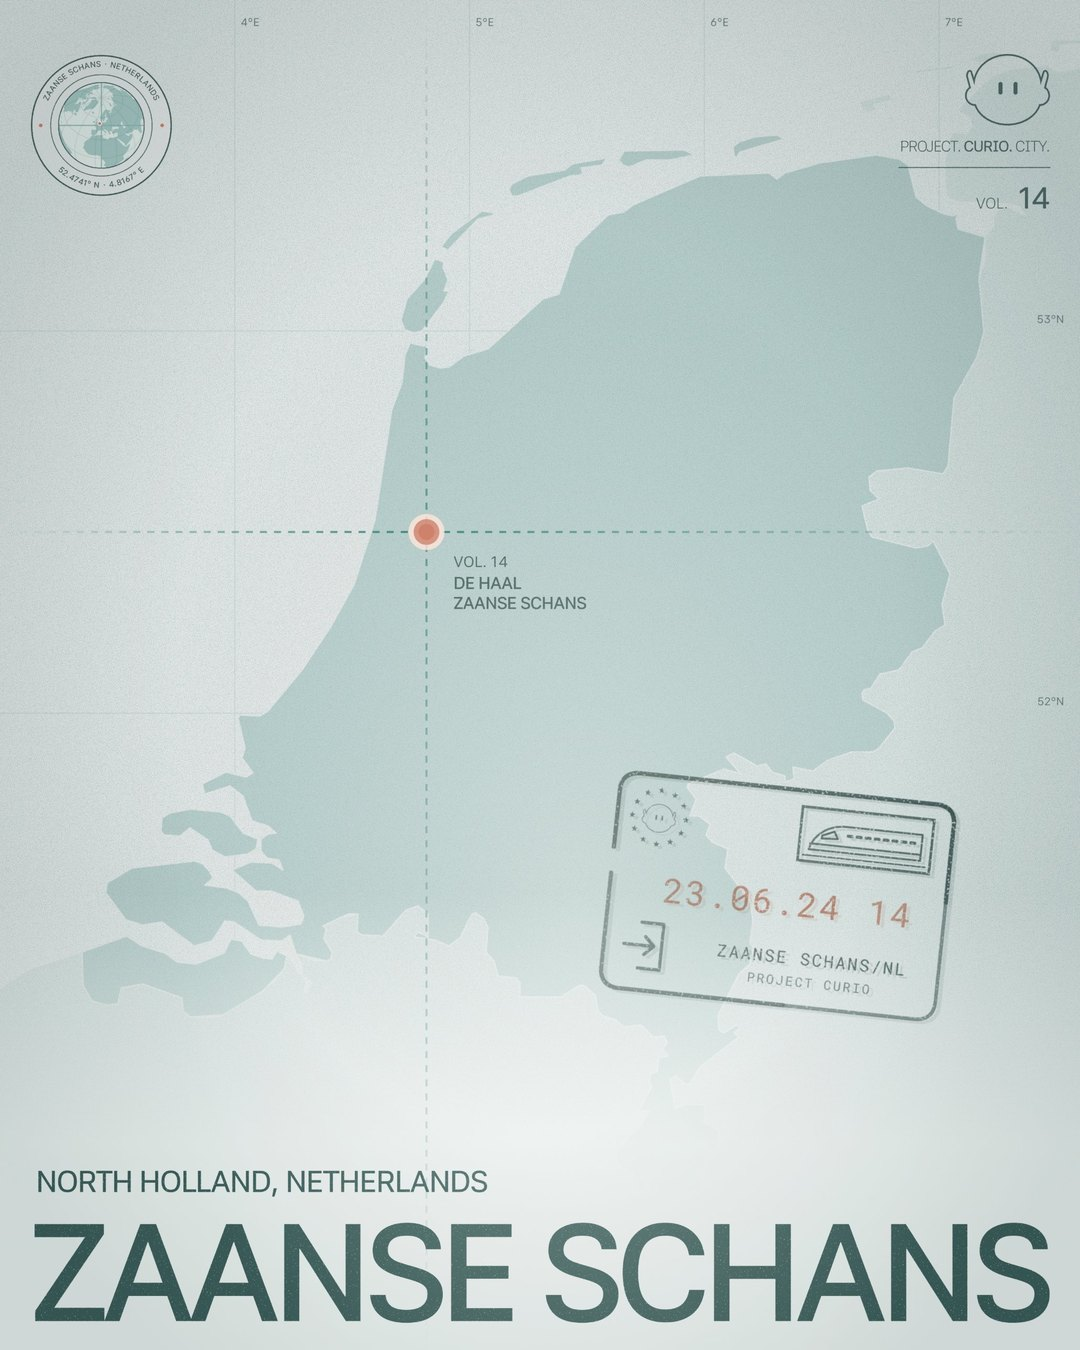
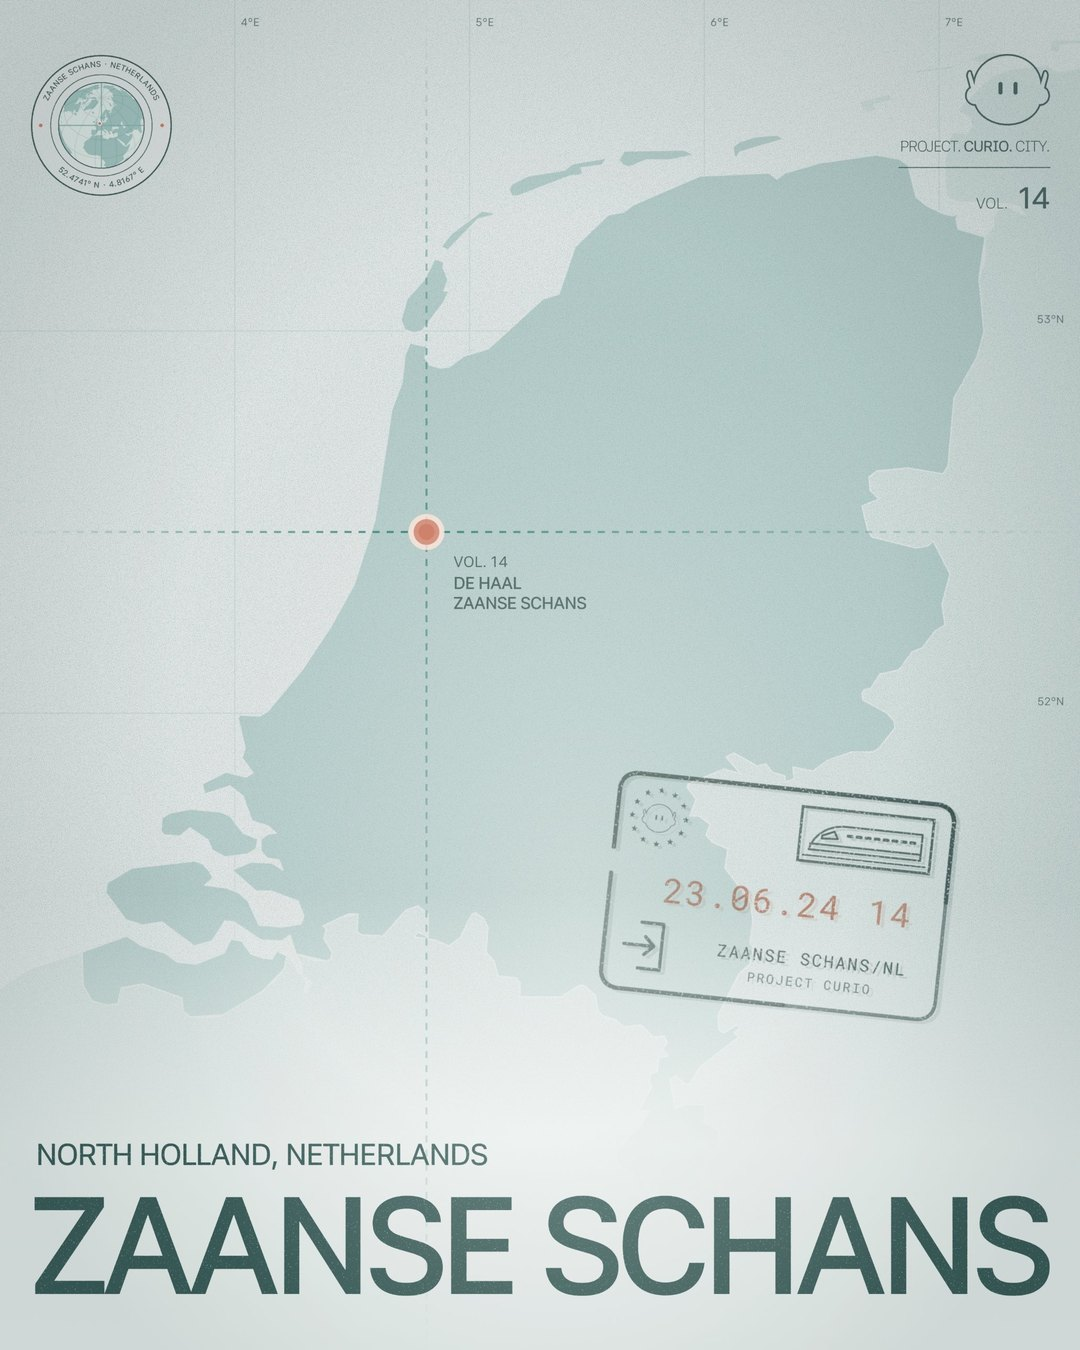
Update VOL 14 stamp poster; cache-bust VOL images
Claude-Session: https://claude.ai/code/session_01K6AaiMC5ZepdFHP1APV6nV

Changed region(s): [[0.0306, 0.84, 0.9778, 0.9956]]

diff --git a/index.html b/index.html
@@ -14,18 +14,18 @@
 <meta property="og:title" content="PROJECT. CURIO. CITY.">
 <meta property="og:description" content="A travel log of the cities Curio collects — one place, one volume.">
 <meta property="og:url" content="https://sseogie.github.io/curio/">
-<meta property="og:image" content="https://sseogie.github.io/curio/assets/og.jpg?v=202610311716">
+<meta property="og:image" content="https://sseogie.github.io/curio/assets/og.jpg?v=202610311757">
 <meta property="og:image:width" content="1200">
 <meta property="og:image:height" content="630">
 <meta property="og:image:alt" content="PROJECT. CURIO. CITY. with the Curio symbol">
 <meta name="twitter:card" content="summary_large_image">
 <meta name="twitter:title" content="PROJECT. CURIO. CITY.">
 <meta name="twitter:description" content="A travel log of the cities Curio collects — one place, one volume.">
-<meta name="twitter:image" content="https://sseogie.github.io/curio/assets/og.jpg?v=202610311716">
+<meta name="twitter:image" content="https://sseogie.github.io/curio/assets/og.jpg?v=202610311757">
 <link rel="preconnect" href="https://fonts.googleapis.com">
 <link rel="preconnect" href="https://fonts.gstatic.com" crossorigin>
 <link href="https://fonts.googleapis.com/css2?family=42dot+Sans:wght@300..800&family=ABeeZee&family=Bpmf+Zihi+Kai+Std&family=Roboto+Mono:wght@400;500&display=swap" rel="stylesheet">
-<link rel="stylesheet" href="css/style.css?v=202610311716">
+<link rel="stylesheet" href="css/style.css?v=202610311757">
 </head>
 <body>
 
@@ -198,8 +198,8 @@
 <script src="vendor/d3.min.js"></script>
 <script src="vendor/topojson-client.min.js"></script>
 <script src="vendor/world-50m.js"></script>
-<script src="js/data.js?v=202610311716"></script>
-<script src="js/board.js?v=202610311716"></script>
-<script src="js/main.js?v=202610311716"></script>
+<script src="js/data.js?v=202610311757"></script>
+<script src="js/board.js?v=202610311757"></script>
+<script src="js/main.js?v=202610311757"></script>
 </body>
 </html>

diff --git a/js/main.js b/js/main.js
@@ -23,7 +23,7 @@
   const KINDS = ["cover", "review", "stamp"];
   const imgSrc = (v, kind = "cover") => {
     const n = (window.CURIO_IMAGES || {})[v.vol];
-    return n ? `assets/vol/${encodeURIComponent(n[KINDS.indexOf(kind)])}.jpg` : `assets/covers/vol-${v.vol}.jpg`;
+    return n ? `assets/vol/${encodeURIComponent(n[KINDS.indexOf(kind)])}.jpg?v=${window.CURIO_IMG_V || ""}` : `assets/covers/vol-${v.vol}.jpg`;
   };
   function fillCover(el, v, kind = "cover") {
     el.classList.remove("has-img");

diff --git a/js/data.js b/js/data.js
@@ -78,3 +78,6 @@ window.CURIO_STAMP_CITY = {
   "07": "OTARU/HOKKAIDO", "08": "OTARU/HOKKAIDO", "09": "BIEI/SHIROGANE",
   "10": "FRANKFURT/MAIN", "11": "OSNABRÜCK HBF", "12": "HALLSTATT/AUSTRIA", "13": "HALLSTATT/AUSTRIA", "14": "ZAANSE SCHANS/NL",
 };
+
+// 이미지를 교체하면 이 값을 바꿔서 브라우저 캐시를 갱신
+window.CURIO_IMG_V = "202610311757";
